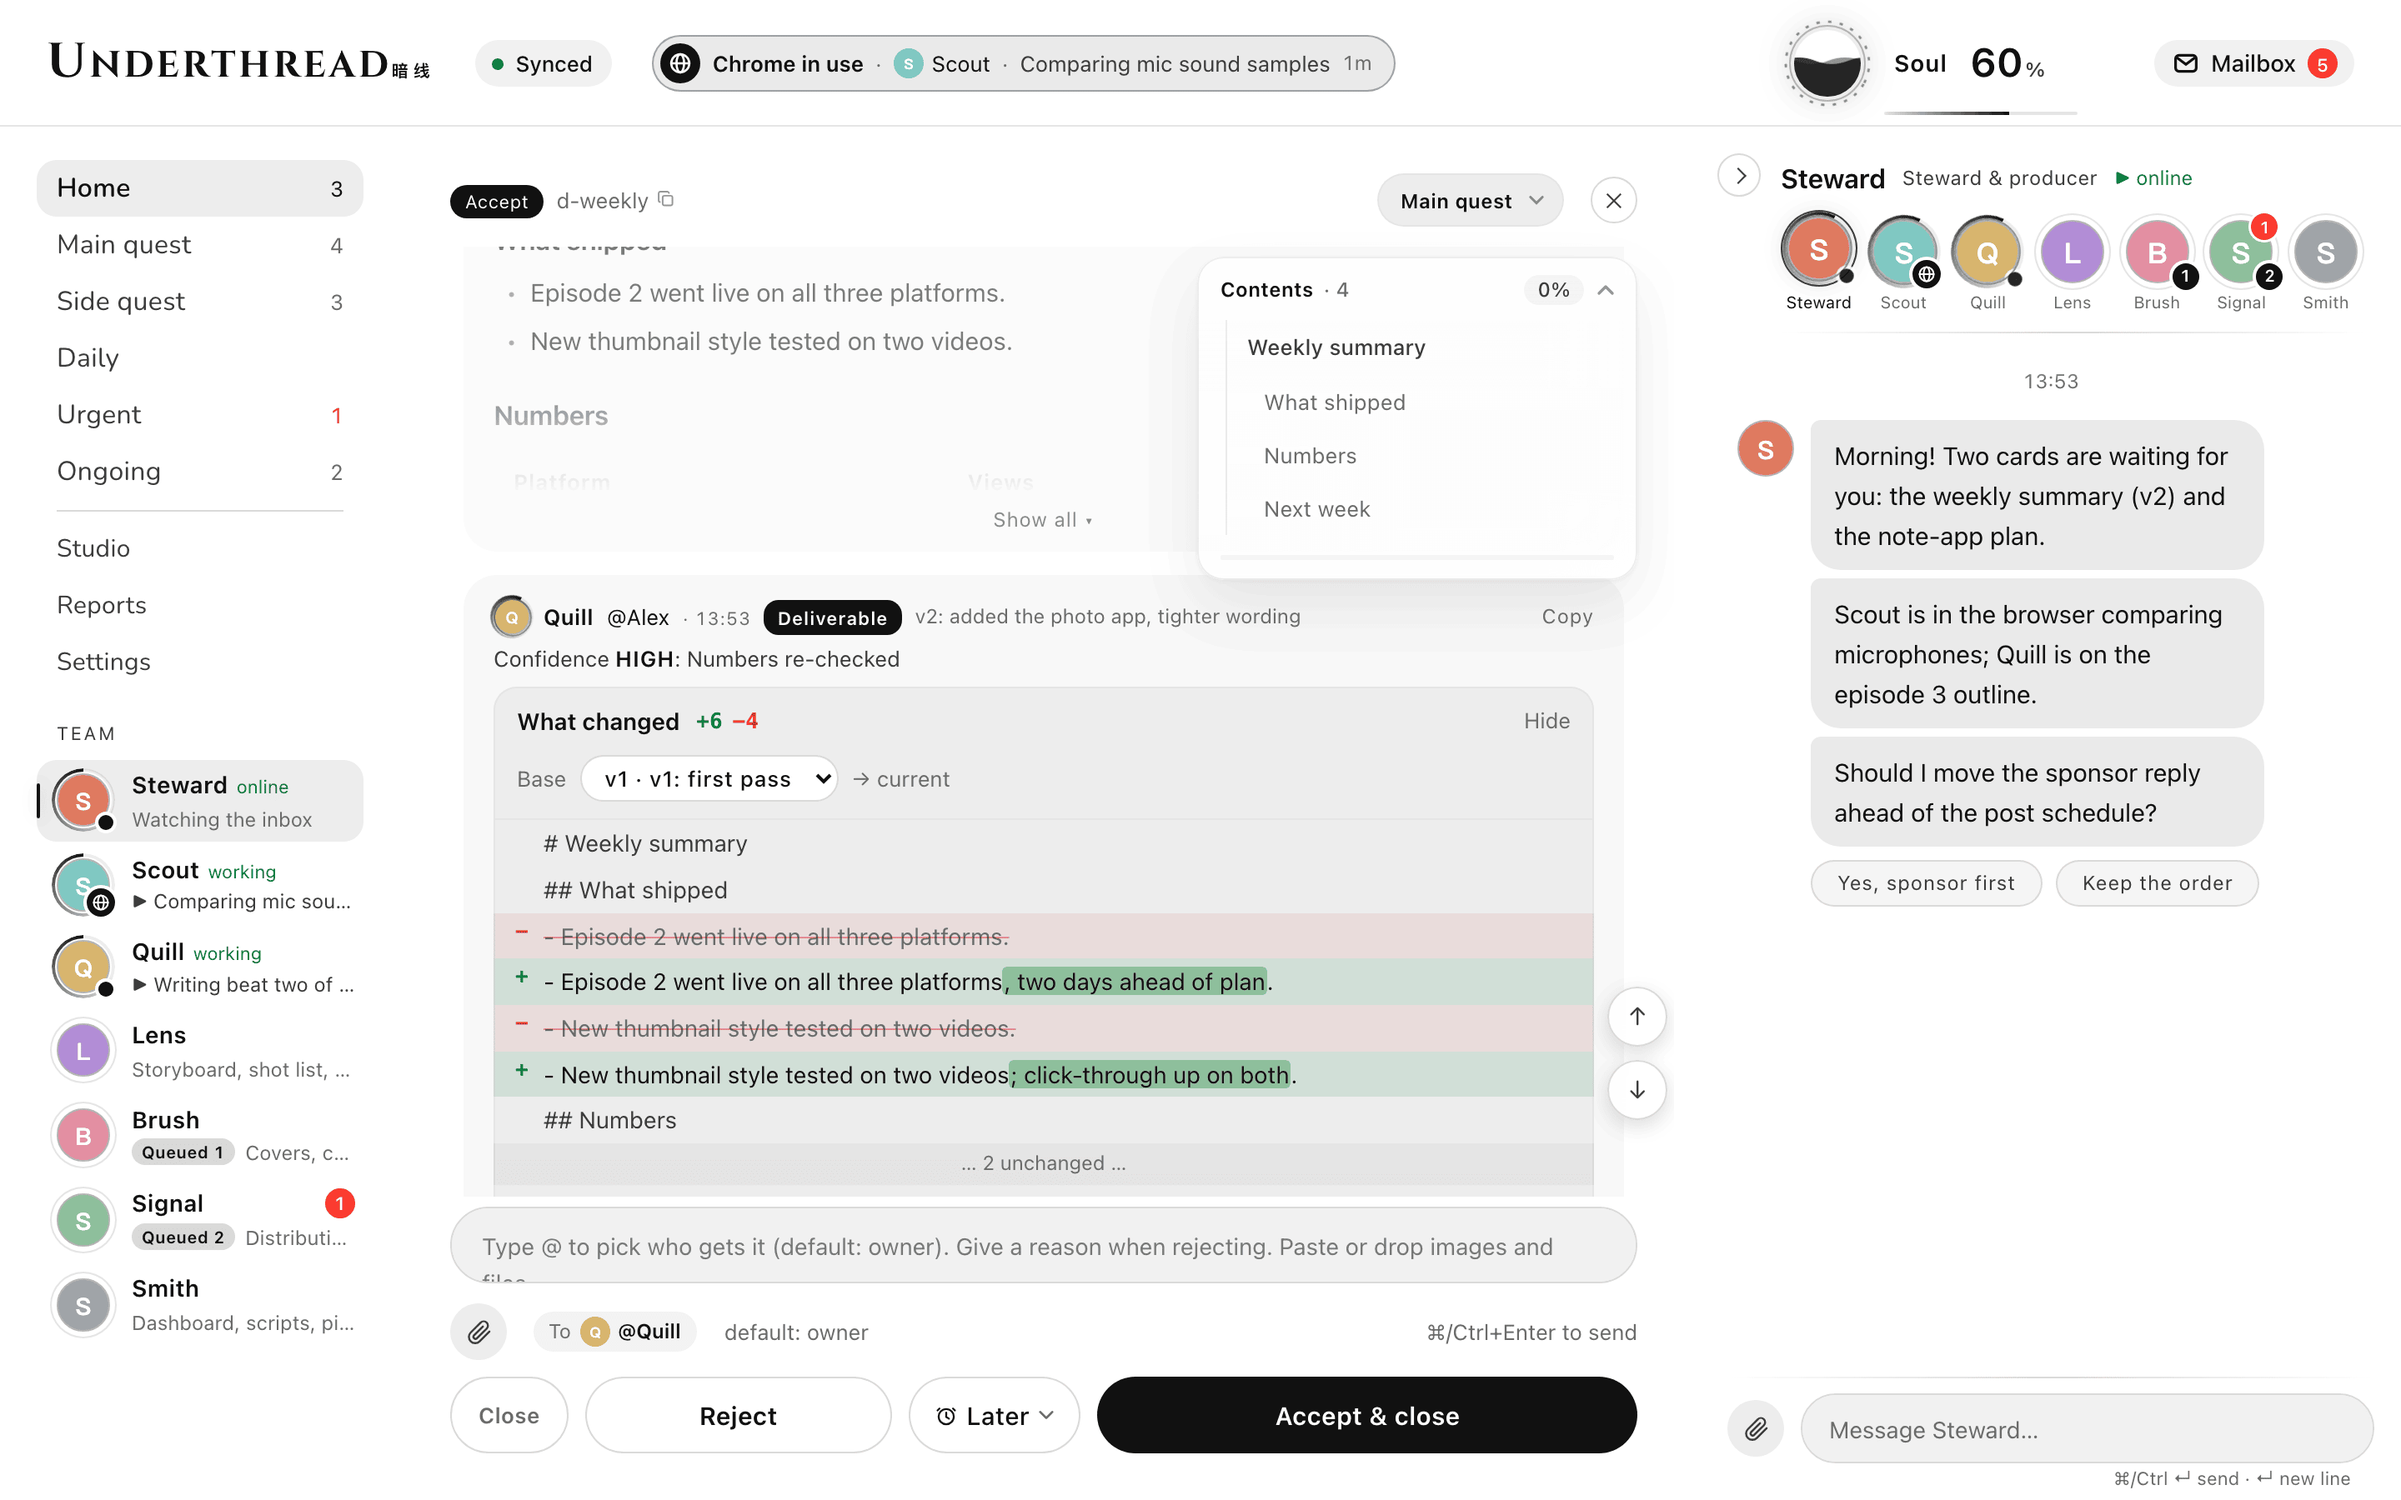
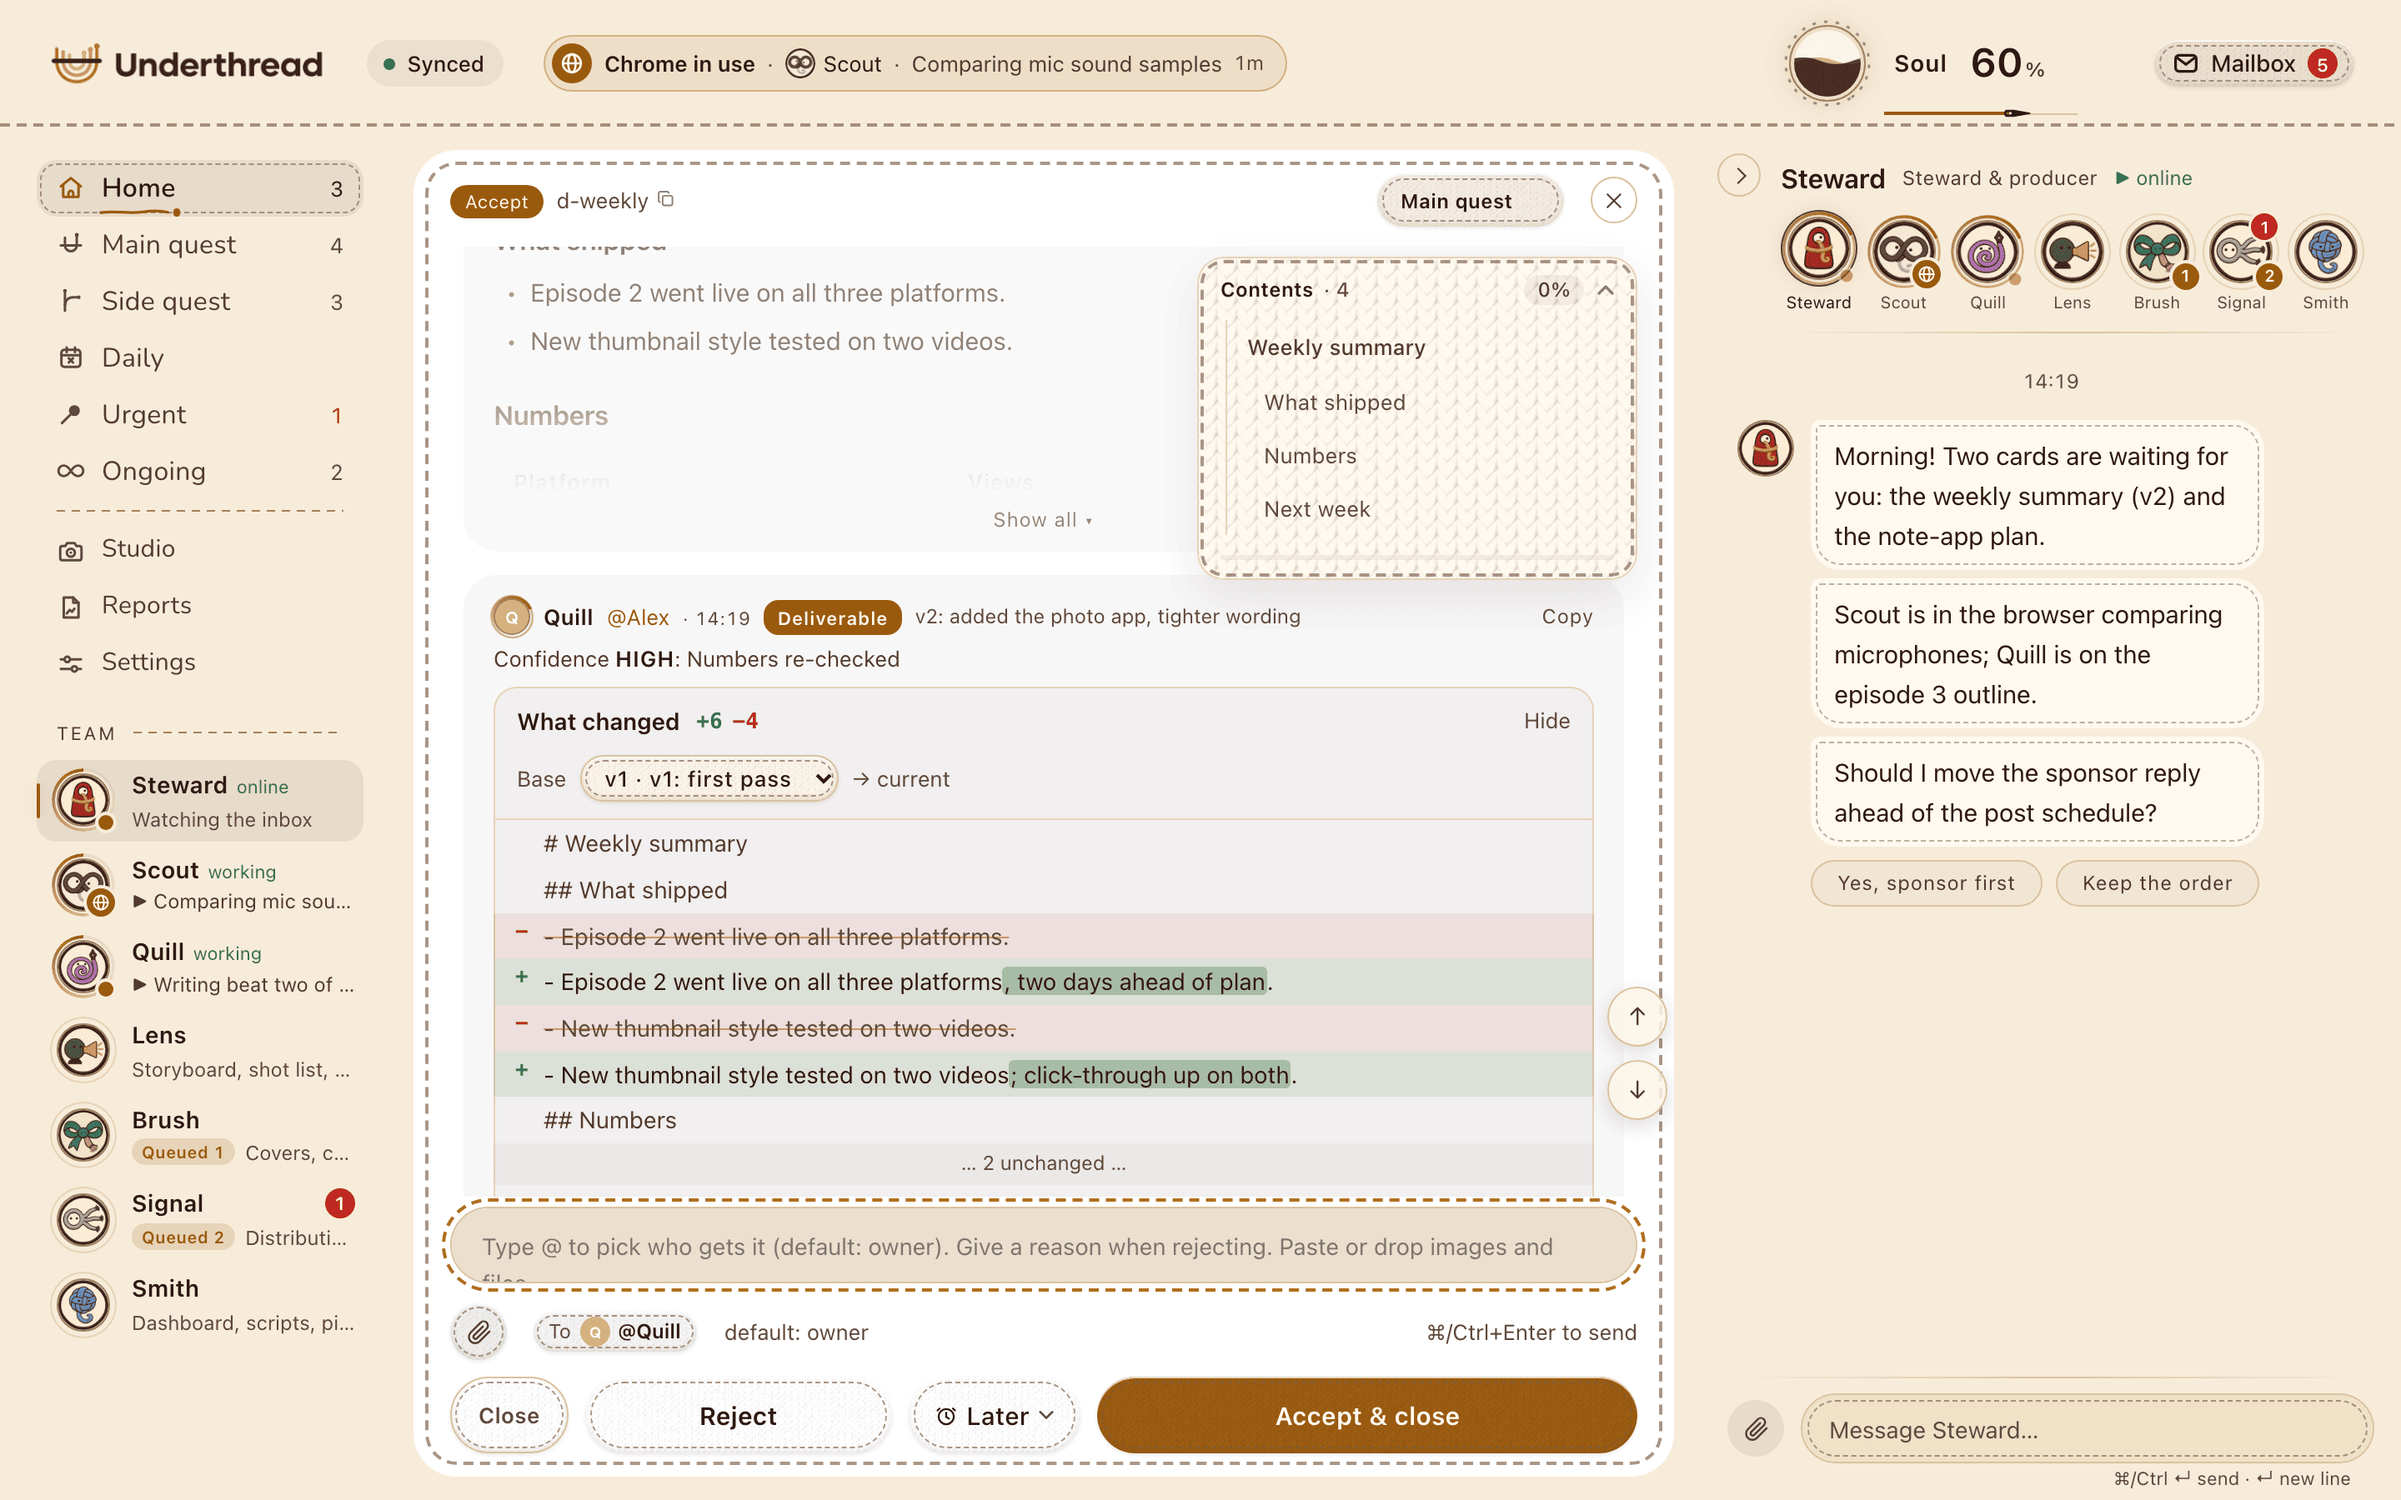
docs: README and screenshots in the Underthread knit look
Retake every screenshot with the Underthread palette, the Sweater texture, the bundled
needle-thread avatars and the logo. Add a paragraph on the look, with the palette and texture
options. Update the themes image, Not included and the License note, and add the new items
to the 2026-11-07 changelog.

diff --git a/README.md b/README.md
@@ -25,7 +25,7 @@ You talk to one **manager**. It turns your messages into cards, hands each card 
   - [Routines, daily report and usage](#routines-daily-report-and-usage)
   - [Desktop dashboard](#desktop-dashboard)
   - [Phone app](#phone-app)
-  - [Themes and home styles](#themes-and-home-styles)
+  - [Look: Underthread palette, textures, home styles](#look-underthread-palette-textures-home-styles)
   - [Performance and power](#performance-and-power)
   - [Tools and running it day to day](#tools-and-running-it-day-to-day)
 - [The bundled team preset](#the-bundled-team-preset)
@@ -155,7 +155,7 @@ When you reject something with a reason, the manager turns the reason into a one
 
 ### Desktop dashboard
 
-![Settings: theme, power saving, home style, language (example data)](docs/img/settings.png)
+![Settings: theme, palette, texture, power saving, opening animation, home style, language (example data)](docs/img/settings.png)
 
 - **Dense home** (the default): today's timeline, waiting on you, today's goals, working now with an ETA, and small counters, all on the first screen.
 - **Lean left rail:** your queues (Home, Main quest, Side quest, Daily, Urgent, Ongoing), then Studio, Reports, Mailbox and Settings, then the team.
@@ -175,11 +175,15 @@ The same dashboard, laid out for a phone. Add it to your home screen and it runs
 - **Pull to refresh**, and search that also finds finished cards' drafts.
 - **Push notifications** (optional, Web Push), set per device: only decisions, decisions plus replies, or everything; quiet hours (23:00–09:00 by default) with a morning digest. They need the page served over https; see [Privacy and safety](#privacy-and-safety).
 
-### Themes and home styles
+### Look: Underthread palette, textures, home styles
 
-![The same home in night and day, and the four home styles (example data)](docs/img/themes.png)
+![The Underthread palette in night and day with the Sweater texture, then the Ink palette and the Stitch, Leather and Saddle textures (example data)](docs/img/themes.png)
+
+The dashboard's default look is **Underthread**: solid coffee and cream colours, with no glass. Each role has an embroidered-patch avatar, and the cards have stitched edges, spool-drawn empty states and an optional knit or leather texture. Every screenshot in this README uses it, with the Sweater texture. If you prefer black glass, switch the palette to **Ink** in Settings → Appearance. The avatars live in `avatars/ut/`. To use your own, replace a role's PNG and run `python3 tools/avatar_sizes.py` (it needs `cwebp`).
 
 - **Night, day or auto.** Auto follows your system's light and dark setting.
+- **Palette:** Underthread (the default) or Ink. **Texture:** Off, Stitch, Sweater, Leather or Saddle. The textures are generated images, a few KB each, and the colours stay the same.
+- **Opening animation:** a needle threads the logo once per session. Tap or press any key to skip it, or turn it off in Settings.
 - **Four home styles** on the desktop: Dense, Widgets, App and Classic. The choice is kept per computer.
 - **Motion with feedback:** every button, tab and switch responds to hover, press and switch.
 
@@ -249,11 +253,11 @@ This repository contains no characters from any game or anime. Please don't comm
 
 | Not included | Notes |
 |---|---|
-| Your data | `config.json`, `roster.json`, `state.json`, `archive.json`, `inbox.jsonl`, `uploads/`, `work/`, `logs/`, `avatars/` |
+| Your data | `config.json`, `roster.json`, `state.json`, `archive.json`, `inbox.jsonl`, `uploads/`, `work/`, `logs/`, everything in `avatars/` except the bundled `avatars/ut/` set |
 | Keys | `vapid.json` and tokens are created on your machine; never commit them |
 | Models | No whisper, ComfyUI or other model weights; follow each model's own licence |
 | Voice | The author's build has local voice calls with the manager; that code is not in this repository |
-| Artwork | No character art. Roles without an avatar get a colour disc with an initial |
+| Artwork | No character art. The Underthread avatars, logo and textures ship with the repo. Under the Ink palette, a role with no avatar of yours gets a colour disc with an initial |
 
 ---
 
@@ -274,4 +278,4 @@ See [CHANGELOG.md](CHANGELOG.md).
 
 ## License
 
-Code is [MIT](LICENSE). It covers this repository's code only; models, fonts, voices and images you plug in keep their own licences. The bundled fonts (Nunito, Cinzel) are under the SIL Open Font License 1.1; their licence texts are in `web/fonts/`.
+Code is [MIT](LICENSE). It covers this repository's code only; models, fonts, voices and images you plug in keep their own licences. The bundled fonts (Nunito, Cinzel) are under the SIL Open Font License 1.1; their licence texts are in `web/fonts/`. The Underthread logo, embroidered-patch avatars and textures were made for this project and contain no third-party artwork.

diff --git a/CHANGELOG.md b/CHANGELOG.md
@@ -5,6 +5,10 @@ What changed in Underthread, newest first. Each release is a sync from the autho
 ## 2026-11-07
 
 ### Added
+- **Underthread look, now the default**: a solid coffee and cream palette (`web/theme-ut.css`) with embroidered-patch avatars for every role (`avatars/ut/`), stitched card edges and spool-drawn empty states. Settings → Appearance → Palette switches back to Ink.
+- **Textures**: Stitch and Sweater (knit), Leather and Saddle. These are procedurally generated images that sit on top of the palette.
+- **Logo**: the Underthread wordmark in the header, plus new app icons and favicons.
+- **Opening animation**: plays once per session; you can skip it or turn it off in Settings.
 - **Power-saving switch** in Settings. Turn it off and looping animations keep playing when idle.
 - **Browser-in-use badge**: the rail, home and widgets show which agent is driving a browser or the desktop, and for how long (`stateutil.py set-agent --tool chrome|computer|""`).
 - **Quoted quick replies**: tapping a quick option in chat quotes the question it answers.
